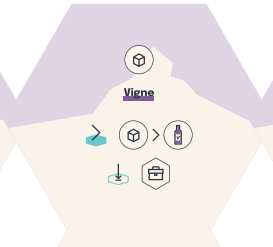
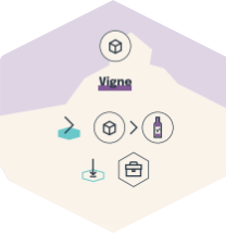
modif des hexagones

diff --git a/Examples/games/Solutre_debug.py b/Examples/games/Solutre_debug.py
@@ -179,7 +179,7 @@ Touriste.newAgentAtCoords(reserve)
 Touriste.newAgentAtCoords(reserve)
 Touriste.newAgentAtCoords(reserve)
 
-Hexagones_test=myModel.newAgentSpecies("Hexagone","hexagonAgent",{"coûtCubes":0,"couleur":None,},defaultSize=70,locationInEntity="center",defaultImage=QPixmap("./icon/solutre/test_solutre.jpg"))
+Hexagones_test=myModel.newAgentSpecies("Hexagone","hexagonAgent",{"coûtCubes":0,"couleur":None,},defaultSize=70,locationInEntity="center",defaultImage=QPixmap("./icon/solutre/N1.png"))
 pioche=myModel.newCellsOnGrid(5,1,"square",size=120,gap=20,name="Pioche")
 Hexagones_test.newAgentAtCoords(pioche,1,1)
 
